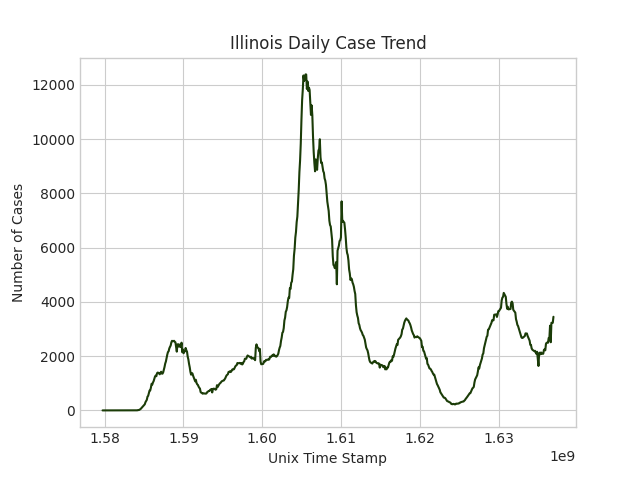
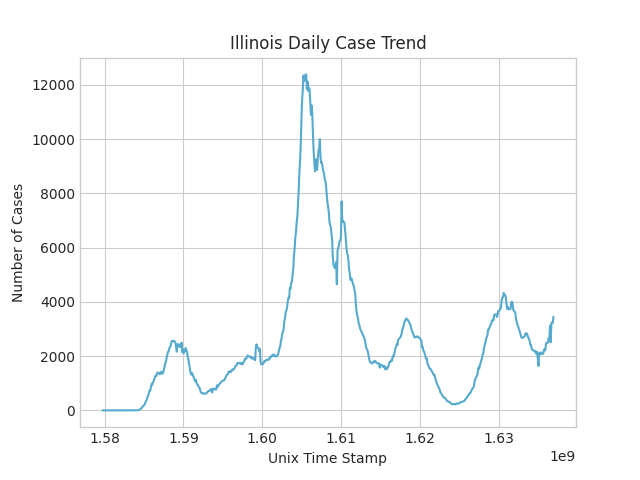
added rest of notebook to py impl

diff --git a/src/daily_trend.py b/src/daily_trend.py
@@ -1,0 +1,186 @@
+#!/usr/bin/env python3
+
+"""
+Daily case trend dedicated parser.
+"""
+
+import shutil
+import re
+import random
+import glob
+import os
+from datetime import datetime
+import time
+
+import matplotlib.pyplot as plt
+import numpy as np
+import tensorflow as tf
+from tensorflow import keras
+from tensorflow.keras import layers
+from sklearn.metrics import accuracy_score
+
+import utilities as util
+
+data_prefix = os.path.join(os.path.dirname(__file__), '../data')
+plot_path = os.path.join(os.path.dirname(__file__), 'plots')
+
+
+def read(file):
+    try:
+        data = util.read(file, util.FileType.CSV)
+        # delete first 3 lines
+        del data[0:3]
+
+        # blow out first column
+        data = np.array(data)
+        data = np.delete(data, 0, 1)
+
+        # Convert string dates to Unix timestamps for easy plotting
+        for entry in data:
+            eDateTime = datetime.strptime(entry[0], '%b %d %Y')
+            entry[0] = int(time.mktime(eDateTime.timetuple()))
+            if (entry[3] == ("N/A")):
+                entry[3] = 0
+    except Exception as e:
+        print(e)
+        return None
+
+    # Cast entire array to integer type
+    return data.astype(np.float64)
+
+
+def plot(filename, title, xlabel, ylabel, xdata, ydata):
+    plt.figure()
+    plt.style.use('seaborn-whitegrid')
+    plt.title(title)
+    plt.xlabel(xlabel)
+    plt.ylabel(ylabel)
+
+    # temporily gen plot color on the fl
+    r = random.random()
+    b = random.random()
+    g = random.random()
+    color = (r, g, b)
+
+    plt.plot(xdata, ydata, c=color)
+
+    print(" - saving " + filename)
+    plt.savefig(filename)
+    plt.close()
+
+
+def setup_plot_paths():
+    # Cleanup and setup plots path
+    if os.path.exists(os.path.join(os.getcwd(), plot_path)):
+        shutil.rmtree(plot_path, ignore_errors=True)
+    os.mkdir(plot_path)
+
+
+def plot_all_daily_trends(data_files):
+    print("Plotting daily trends...")
+
+    for csv_file in data_files:
+        daily_cases = read(os.path.join(data_prefix, csv_file))
+
+        # grab the state name from file path
+        filename = re.search('.*__(.+?)\.csv', csv_file).group(1)
+
+        plot(filename=os.path.join(plot_path, filename + "_daily_case_trends" + '.png'),
+             title="{} Daily Case Trend".format(filename.title()),
+             xlabel="Unix Time Stamp",
+             ylabel="Number of Cases",
+             xdata=daily_cases[:, 0],
+             ydata=daily_cases[:, 2])
+
+    print("Done plotting daily trends.")
+
+
+def main():
+    setup_plot_paths()
+
+    # Discover case trend csv files and plot daily trends
+    csv_files = glob.glob(data_prefix + '/data_table_for_daily_case_trends*')
+
+    plot_all_daily_trends(csv_files)
+
+    # Create sets of 10 input data points and 1 output data point
+    # (model predicts the next case number given 10 previous case counts)
+    dataTimestamps = []
+    dataCuratedX = []
+    dataCuratedY = []
+    vaccinatedY = []
+
+    for csv_file in csv_files:
+        # TODO: inneficient, change to read only once.
+        daily_cases = read(os.path.join(data_prefix, csv_file))
+
+        for index, entry in enumerate(daily_cases):
+            if index + 40 < len(daily_cases):
+                dataTimestamps.append(daily_cases[index, 0])
+                dataCuratedX.append(daily_cases[index+1:index+41, 2])
+                dataCuratedY.append(daily_cases[index, 2])
+                vaccinatedY.append(daily_cases[index, 3])
+
+    dataCuratedX = np.array(dataCuratedX)
+
+    # Split training and test data
+    trainingSplitIndex = round(len(dataCuratedX) * 0.3)
+    dataTrainingTimestamps = dataTimestamps[trainingSplitIndex:]
+    dataTrainingX = np.asarray(dataCuratedX[trainingSplitIndex:])
+    dataTrainingY = np.asarray(dataCuratedY[trainingSplitIndex:])
+    vaccinatedTrainingY = np.asarray(vaccinatedY[trainingSplitIndex:])
+    dataTestTimestamps = dataTimestamps[:trainingSplitIndex]
+    dataTestX = np.asarray(dataCuratedX[:trainingSplitIndex])
+    dataTestY = np.asarray(dataCuratedY[:trainingSplitIndex])
+    vaccinatedTestY = np.asarray(vaccinatedY[:trainingSplitIndex])
+
+    # Build and train model
+    model = keras.Sequential()
+    model.add(layers.Dense(40, activation="relu"))
+    model.add(layers.Dense(10, activation="relu"))
+    model.add(layers.Dense(5, activation="relu"))
+    model.add(layers.Dense(1))
+
+    model.compile(
+        optimizer=keras.optimizers.RMSprop(),
+        loss='mean_squared_error'
+    )
+
+    epochs = 200
+
+    history = model.fit(dataTrainingX, dataTrainingY,
+                        epochs=epochs,
+                        validation_data=(dataTestX, dataTestY),
+                        verbose=0
+                        )
+
+    # Plot loss
+    hLoss = history.history['loss']
+    hVLoss = history.history['val_loss']
+    plt.figure()
+    plt.plot(range(epochs), hLoss, '-', range(epochs), hVLoss, '--')
+    plt.savefig(os.path.join(plot_path, "loss_plot.png"))
+    plt.close()
+
+    print('Model vs training data (error)')
+    dataTrainingPredY = model.predict(dataTrainingX)
+    plt.figure()
+    plt.plot(dataTrainingTimestamps, dataTrainingY, '-',
+             dataTrainingTimestamps, dataTrainingPredY, '--')
+    plt.savefig(os.path.join(
+        plot_path, "model_vs_training_data_error.png"))
+    # print("accuracy_score", accuracy_score(
+    #     dataTrainingY, dataTrainingPredY))
+    plt.close()
+
+    print('Model vs test data (error)')
+    dataTestPredY = model.predict(dataTestX)
+    plt.figure()
+    plt.plot(dataTestTimestamps, dataTestY, '-',
+             dataTestTimestamps, dataTestPredY, '--')
+    plt.savefig(os.path.join(plot_path, "model_vs_test_data.png"))
+    plt.close()
+    # print("accuracy_score", accuracy_score(dataTestY, dataTestPredY))
+
+
+main()
